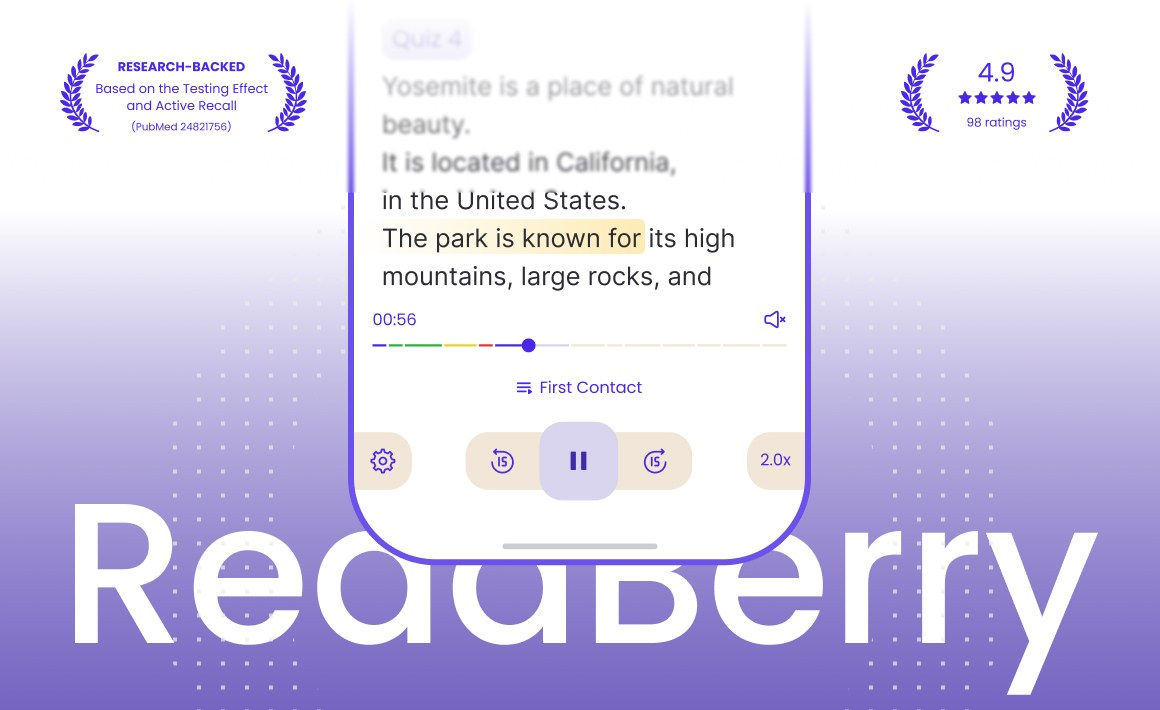
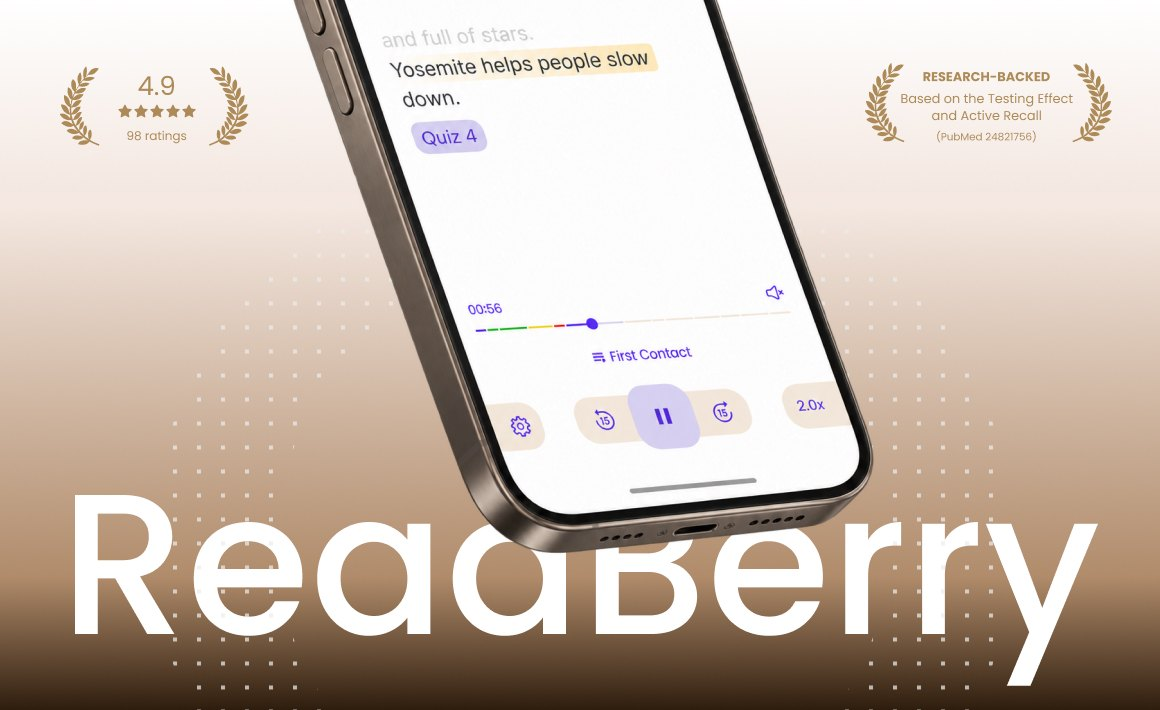
Readberry card: new cover from Pavlo (laurels, phone with player)
Claude-Session: https://claude.ai/code/session_01KoMBYx17gFpQtN4x8squ5S

diff --git a/index.html b/index.html
@@ -800,7 +800,7 @@ img[src$="rocken-logo.svg"],img[src$="asalart-logo.png"],img[src$="rocken-wordma
     <p class="project__domain">Audio reader with quizzes for people who have a lot to read</p>
     <div class="project__foot"><p class="project__role">Founder, product designer</p><p class="project__sub">2026 &#183; iOS</p></div>
   </div>
-  <div class="project__img"><img src="assets/cover-readberry.jpg?v=7" width="580" height="355" alt="Readberry — iOS audio reader with quizzes, product design case" loading="lazy"><span class="project__glass" aria-hidden="true"><span class="project__cta">View case<svg viewBox="0 0 16 16" width="14" height="14" fill="none"><path d="M3 8h10M9 4l4 4-4 4" stroke="currentColor" stroke-width="1.5" stroke-linecap="round" stroke-linejoin="round"/></svg></span></span></div>
+  <div class="project__img"><img src="assets/cover-readberry.jpg?v=8" width="580" height="355" alt="Readberry — iOS audio reader with quizzes, product design case" loading="lazy"><span class="project__glass" aria-hidden="true"><span class="project__cta">View case<svg viewBox="0 0 16 16" width="14" height="14" fill="none"><path d="M3 8h10M9 4l4 4-4 4" stroke="currentColor" stroke-width="1.5" stroke-linecap="round" stroke-linejoin="round"/></svg></span></span></div>
   <a class="project__link" href="#readberry" aria-label="Readberry — iOS audio reader with quizzes, product design case"></a>
 </article>
 <article class="project">
